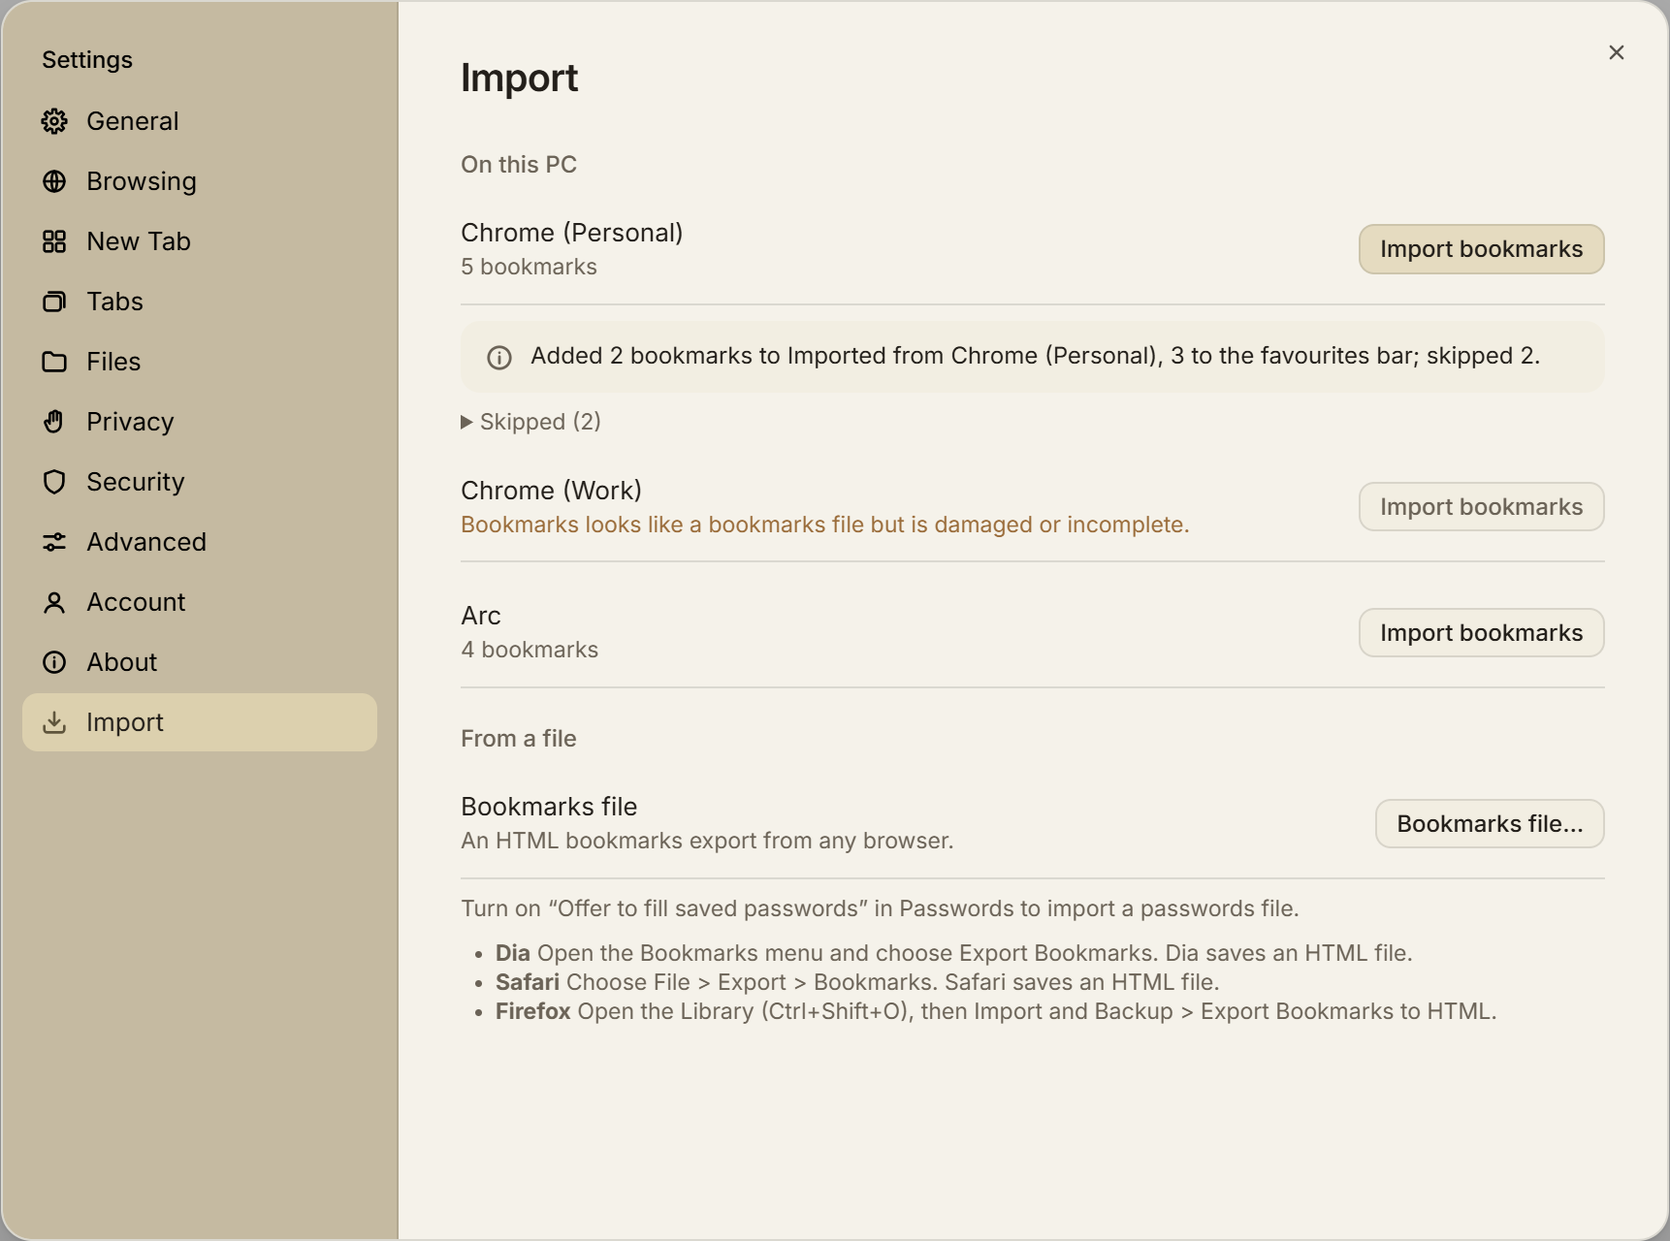
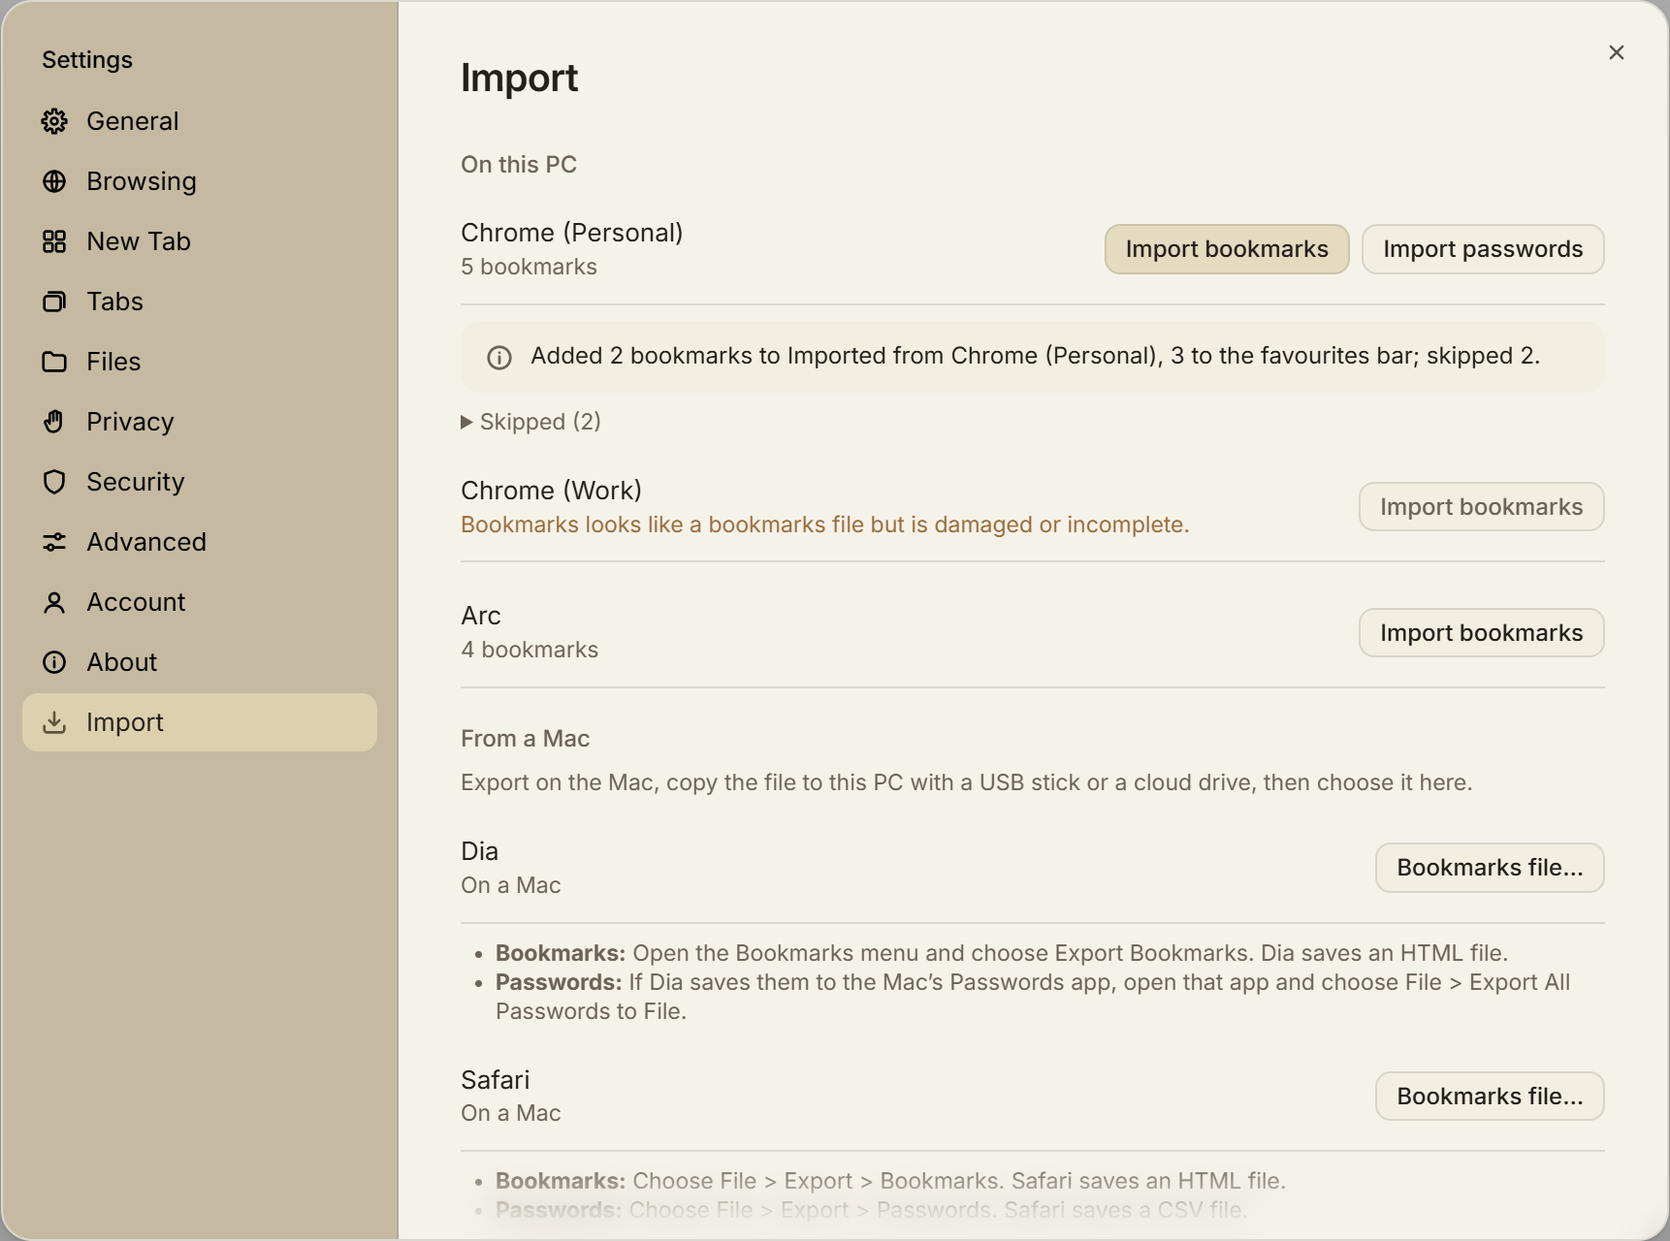
import: a from-a-mac section for dia, safari and arc, and the export menu path

diff --git a/e2e/import.spec.ts b/e2e/import.spec.ts
@@ -94,6 +94,8 @@ test('importing the same profile twice adds nothing the second time', async () =
 	await zing.close()
 })
 
+const macRow = (sheet: Page, app: string) => section(sheet).getByRole('group', { name: `${app} on a Mac`, exact: true })
+
 test('a bookmarks file from Safari imports into a folder named after the file', async () => {
 	const dir = scratchDir('zing-bookmarks-file-')
 	const file = join(dir, 'safari-export.html')
@@ -102,8 +104,8 @@ test('a bookmarks file from Safari imports into a folder named after the file', 
 	const sheet = await openImport(zing)
 	await zing.chrome.evaluate((f) => (globalThis as unknown as { chrome: { webview: { postMessage(m: unknown): void } } }).chrome.webview.postMessage({ kind: 'test', action: 'pick-files', files: [f] }), file)
 
-	await section(sheet).getByRole('button', { name: 'Bookmarks file…' }).click()
-	await expect(section(sheet).getByRole('status')).toContainText('safari-export.html')
+	await macRow(sheet, 'Safari').getByRole('button', { name: 'Bookmarks file…' }).click()
+	await expect(macRow(sheet, 'Safari').getByRole('status')).toContainText('safari-export.html')
 
 	const { bookmarks } = await library(zing)
 	const imported = bookmarks.find((n) => n.title.includes('safari-export.html') && 'children' in n)
@@ -132,6 +134,32 @@ test('a broken profile shows its error and the others still import', async () =>
 	await zing.close()
 })
 
+test('From a Mac lists Dia, Safari and Arc with their export steps, and hides Passwords file while the vault is off', async () => {
+	const zing = await launch(localAppData([]))
+	const sheet = await openImport(zing)
+	for (const app of ['Dia', 'Safari', 'Arc']) {
+		await expect(macRow(sheet, app).getByRole('button', { name: 'Bookmarks file…' })).toBeVisible()
+		await expect(macRow(sheet, app).getByRole('list', { name: `Exporting from ${app}` })).toContainText('Bookmarks:')
+		await expect(macRow(sheet, app).getByRole('button', { name: 'Passwords file…' })).toHaveCount(0)
+	}
+	await expect(macRow(sheet, 'Dia')).toContainText('Open the Bookmarks menu and choose Export Bookmarks.')
+	await expect(macRow(sheet, 'Arc')).toContainText('StorableSidebar.json')
+	await zing.close()
+})
+
+test("Arc's sidebar file from a Mac imports", async () => {
+	const file = join(scratchDir('zing-arc-file-'), 'StorableSidebar.json')
+	writeFileSync(file, fixture('arc-sidebar.json'))
+	const zing = await launch(localAppData([]))
+	const sheet = await openImport(zing)
+	await zing.chrome.evaluate((f) => (globalThis as unknown as { chrome: { webview: { postMessage(m: unknown): void } } }).chrome.webview.postMessage({ kind: 'test', action: 'pick-files', files: [f] }), file)
+
+	await macRow(sheet, 'Arc').getByRole('button', { name: 'Bookmarks file…' }).click()
+	await expect(macRow(sheet, 'Arc').getByRole('status')).toContainText('StorableSidebar.json')
+	expect((await library(zing)).bookmarks.some((n) => n.title.includes('StorableSidebar.json') && 'children' in n)).toBe(true)
+	await zing.close()
+})
+
 const PASSWORDS_CSV = 'name,url,username,password,note\nExample,https://example.test/login,ada,first password,\nOther,https://other.test,bob,second password,\n'
 
 /** A profile with the vault on or off (passwordAutofill is read at launch) and a downloads folder, for the password flow. */
@@ -145,6 +173,8 @@ function passwordProfile(vaultOn: boolean): string {
 const launchWithPasswords = (vaultOn: boolean): Promise<Launched> =>
 	launchZing({ userDataDir: passwordProfile(vaultOn), env: { ZING_LOCALAPPDATA: localAppData([['Default', 'Personal', fixture('chromium-bookmarks.json')]]) } })
 
+const CHROME_LAUNCH = { kind: 'launch:chrome', url: 'chrome://password-manager/settings', args: ['--profile-directory=Default', 'chrome://password-manager/settings'] }
+
 const passwordFlow = (sheet: Page) => row(sheet, 'Chrome (Personal)').getByRole('group', { name: 'Import Chrome passwords' })
 const summaries = (zing: Launched) => zing.chrome.evaluate(() => window.zing.vaultSummaries())
 
@@ -153,7 +183,8 @@ test("Import passwords opens Chrome's export page, imports the CSV that lands in
 	const sheet = await openImport(zing)
 	await row(sheet, 'Chrome (Personal)').getByRole('button', { name: 'Import passwords' }).click()
 	await expect(passwordFlow(sheet)).toContainText('In Chrome, click Export passwords, confirm, and save. Zing will pick up the file.')
-	expect(zing.dialogs()).toContainEqual({ kind: 'launch:chrome', url: 'chrome://password-manager/settings' })
+	await expect(passwordFlow(sheet)).toContainText('If Chrome shows a new tab instead, open ⋮ menu > Passwords and autofill > Google Password Manager > Settings.')
+	expect(zing.dialogs()).toContainEqual(CHROME_LAUNCH)
 
 	// The watch only takes a file written after it started, once its length has held for two polls.
 	const file = join(zing.userDataDir, 'downloads', 'Chrome Passwords.csv')
@@ -185,7 +216,7 @@ test('with the vault off, Import passwords asks first and turns it on', async ()
 	await passwordFlow(sheet).getByRole('button', { name: 'Turn on and continue' }).click()
 	await expect(passwordFlow(sheet)).toContainText('In Chrome, click Export passwords')
 	await expect.poll(async () => (await zing.chrome.evaluate(() => window.zing.getVaultState())).enabled).toBe(true)
-	expect(zing.dialogs()).toContainEqual({ kind: 'launch:chrome', url: 'chrome://password-manager/settings' })
+	expect(zing.dialogs()).toContainEqual(CHROME_LAUNCH)
 	await zing.close()
 })
 
@@ -205,6 +236,20 @@ test('a passwords file chosen by hand imports and offers to recycle it', async (
 	await expect(passwordFlow(sheet).getByRole('button', { name: 'Done' })).toBeVisible()
 	expect(existsSync(file)).toBe(false)
 	expect(zing.dialogs()).toContainEqual({ kind: 'recycle', url: 'my-export.csv' })
+	await zing.close()
+})
+
+test('a passwords file from Dia imports into the vault and reports under the Dia row', async () => {
+	const zing = await launchWithPasswords(true)
+	const sheet = await openImport(zing)
+	const file = join(scratchDir('zing-dia-passwords-'), 'Passwords.csv')
+	writeFileSync(file, PASSWORDS_CSV)
+	await zing.chrome.evaluate((f) => (globalThis as unknown as { chrome: { webview: { postMessage(m: unknown): void } } }).chrome.webview.postMessage({ kind: 'test', action: 'pick-files', files: [f] }), file)
+
+	await macRow(sheet, 'Dia').getByRole('button', { name: 'Passwords file…' }).click()
+	await expect(macRow(sheet, 'Dia').getByRole('status')).toContainText('Added 2, merged 0')
+	await expect(macRow(sheet, 'Safari').getByRole('status')).toHaveCount(0)
+	expect((await summaries(zing)).map((l) => l.username).sort()).toEqual(['ada', 'bob'])
 	await zing.close()
 })
 
@@ -279,7 +324,7 @@ test("Import passwords too opens Settings Import already waiting for Chrome's ex
 
 	const sheet = await pageWhere(zing.browser, (p) => p.url().endsWith('#surface'))
 	await expect(passwordFlow(sheet)).toContainText('In Chrome, click Export passwords, confirm, and save. Zing will pick up the file.')
-	await expect.poll(() => zing.dialogs()).toContainEqual({ kind: 'launch:chrome', url: 'chrome://password-manager/settings' })
+	await expect.poll(() => zing.dialogs()).toContainEqual(CHROME_LAUNCH)
 	await zing.close()
 })
 
@@ -320,6 +365,39 @@ test.describe('Import screenshots', () => {
 			await expect(row(sheet, 'Chrome (Personal)').getByRole('status')).toContainText('Added')
 			await sheet.waitForTimeout(400)
 			await sheet.getByRole('dialog', { name: 'Settings' }).screenshot({ path: join(SHOTS, `import-section-${mode}.png`) })
+			await zing.close()
+		})
+	}
+
+	for (const mode of ['light', 'dark'] as const) {
+		test(`the From a Mac rows, ${mode}`, async () => {
+			test.setTimeout(180_000)
+			mkdirSync(SHOTS, { recursive: true })
+			const zing = await launchWithPasswords(true)
+			await zing.chrome.evaluate((theme) => window.zing.setSetting('theme', theme), mode)
+			await expect.poll(async () => (await viewAccent(zing.chrome)).dark).toBe(mode === 'dark')
+			const sheet = await openImport(zing)
+			await sheet.emulateMedia({ colorScheme: mode })
+			await expect.poll(async () => (await viewAccent(sheet)).dark).toBe(mode === 'dark')
+			await macRow(sheet, 'Arc').scrollIntoViewIfNeeded()
+			await sheet.waitForTimeout(400)
+			await sheet.getByRole('dialog', { name: 'Settings' }).screenshot({ path: join(SHOTS, `import-mac-${mode}.png`) })
+			await zing.close()
+		})
+
+		test(`the password export fallback, ${mode}`, async () => {
+			test.setTimeout(180_000)
+			mkdirSync(SHOTS, { recursive: true })
+			const zing = await launchWithPasswords(true)
+			await zing.chrome.evaluate((theme) => window.zing.setSetting('theme', theme), mode)
+			await expect.poll(async () => (await viewAccent(zing.chrome)).dark).toBe(mode === 'dark')
+			const sheet = await openImport(zing)
+			await sheet.emulateMedia({ colorScheme: mode })
+			await expect.poll(async () => (await viewAccent(sheet)).dark).toBe(mode === 'dark')
+			await row(sheet, 'Chrome (Personal)').getByRole('button', { name: 'Import passwords' }).click()
+			await expect(passwordFlow(sheet)).toContainText('If Chrome shows a new tab instead')
+			await sheet.waitForTimeout(400)
+			await sheet.getByRole('dialog', { name: 'Settings' }).screenshot({ path: join(SHOTS, `import-password-fallback-${mode}.png`) })
 			await zing.close()
 		})
 	}

diff --git a/src/renderer/src/settings/ImportSection.tsx b/src/renderer/src/settings/ImportSection.tsx
@@ -2,7 +2,7 @@ import { useEffect, useState } from 'react'
 import type { BookmarkImportOutcome, ImportSourceView } from '@shared/ipc'
 import { zing } from '../api'
 import { InfoBanner, PillButton } from '../components'
-import { fileHelp, outcomeLine, PASSWORDS_FILE_VAULT_OFF } from './importText'
+import { fileHelp, MAC_INTRO, macBrowsers, outcomeLine, PASSWORDS_FILE_VAULT_OFF } from './importText'
 import { messageOf, PasswordImportResult, usePasswordCsvImport } from './PasswordImport'
 import { PasswordImportFlow } from './PasswordImportFlow'
 import { SettingRowShell } from './SettingRowShell'
@@ -13,6 +13,7 @@ type RowId = string
 
 const FILE_ROW: RowId = 'bookmarks-file'
 const PASSWORDS_ROW: RowId = 'passwords-file'
+const macRow = (app: string): RowId => `mac:${app}`
 
 function sourceDetail(source: ImportSourceView): string {
 	if (source.error) return source.error
@@ -53,6 +54,8 @@ export function ImportSection() {
 	const [result, setResult] = useState<{ row: RowId; outcome: BookmarkImportOutcome }>()
 	const [flowSource, setFlowSource] = useState<string>()
 	const passwords = usePasswordCsvImport()
+	// The row whose Passwords file button ran last, so the result sits under it.
+	const [passwordsRow, setPasswordsRow] = useState<RowId>()
 
 	useEffect(() => {
 		let current = true
@@ -112,19 +115,23 @@ export function ImportSection() {
 	const importFrom = (source: ImportSourceView): void =>
 		void run(source.id, async () => setResult({ row: source.id, outcome: await zing.importBookmarks(source.id) }))
 
-	const importBookmarksFile = (): void =>
-		void run(FILE_ROW, async () => {
+	const importBookmarksFile = (row: RowId): void =>
+		void run(row, async () => {
 			const [file] = await zing.pickFiles(['bookmarks'])
 			if (!file) return
-			setResult({ row: FILE_ROW, outcome: await zing.importBookmarksFile(file.token) })
+			setResult({ row, outcome: await zing.importBookmarksFile(file.token) })
 		})
 
-	const importPasswordsFile = (): void => void run(PASSWORDS_ROW, passwords.pickAndImport)
+	const importPasswordsFile = (row: RowId): void => {
+		setPasswordsRow(row)
+		void run(row, passwords.pickAndImport)
+	}
 
 	const rowOutcome = (row: RowId) => (
 		<>
 			{error?.row === row ? <InfoBanner kind="warning">{error.message}</InfoBanner> : null}
 			{result?.row === row ? <Outcome outcome={result.outcome} /> : null}
+			{passwordsRow === row ? <PasswordImportResult imported={passwords.imported} /> : null}
 		</>
 	)
 
@@ -164,10 +171,38 @@ export function ImportSection() {
 				</div>
 			))}
 
+			<div className="vault-subtitle">From a Mac</div>
+			<div className="vault-none">{MAC_INTRO}</div>
+			{macBrowsers.map((mac) => (
+				<div key={mac.app} className="vault" role="group" aria-label={`${mac.app} on a Mac`}>
+					<SettingRowShell title={mac.app} detail="On a Mac">
+						<div className="vault-actions">
+							<PillButton variant="outlined" size="small" disabled={busy} onClick={() => importBookmarksFile(macRow(mac.app))}>
+								Bookmarks file…
+							</PillButton>
+							{vaultOn ? (
+								<PillButton variant="outlined" size="small" disabled={busy} onClick={() => importPasswordsFile(macRow(mac.app))}>
+									Passwords file…
+								</PillButton>
+							) : null}
+						</div>
+					</SettingRowShell>
+					<ul className="import-help" aria-label={`Exporting from ${mac.app}`}>
+						<li>
+							<strong>Bookmarks:</strong> {mac.bookmarks}
+						</li>
+						<li>
+							<strong>Passwords:</strong> {mac.passwords}
+						</li>
+					</ul>
+					{rowOutcome(macRow(mac.app))}
+				</div>
+			))}
+
 			<div className="vault-subtitle">From a file</div>
 			<SettingRowShell title="Bookmarks file" detail="An HTML bookmarks export from any browser.">
 				<div className="vault-actions">
-					<PillButton variant="outlined" size="small" disabled={busy} onClick={importBookmarksFile}>
+					<PillButton variant="outlined" size="small" disabled={busy} onClick={() => importBookmarksFile(FILE_ROW)}>
 						Bookmarks file…
 					</PillButton>
 				</div>
@@ -180,13 +215,12 @@ export function ImportSection() {
 				<>
 					<SettingRowShell title="Passwords file" detail="A CSV export from a password manager or browser.">
 						<div className="vault-actions">
-							<PillButton variant="outlined" size="small" disabled={busy} onClick={importPasswordsFile}>
+							<PillButton variant="outlined" size="small" disabled={busy} onClick={() => importPasswordsFile(PASSWORDS_ROW)}>
 								Passwords file…
 							</PillButton>
 						</div>
 					</SettingRowShell>
-					{error?.row === PASSWORDS_ROW ? <InfoBanner kind="warning">{error.message}</InfoBanner> : null}
-					<PasswordImportResult imported={passwords.imported} />
+					{rowOutcome(PASSWORDS_ROW)}
 				</>
 			) : vault === undefined || vault.state.error === 'unreadable' ? null : (
 				<div className="vault-none">{PASSWORDS_FILE_VAULT_OFF}</div>

diff --git a/src/renderer/src/settings/importText.ts b/src/renderer/src/settings/importText.ts
@@ -1,4 +1,4 @@
-import type { BookmarkImportOutcome } from '@shared/ipc'
+import type { BookmarkImportOutcome, ImportSourceView } from '@shared/ipc'
 
 const bookmarks = (n: number): string => `${n} ${n === 1 ? 'bookmark' : 'bookmarks'}`
 
@@ -13,12 +13,42 @@ export function outcomeLine(o: BookmarkImportOutcome): string {
 	return `${parts.join(', ')}${skipped > 0 ? `; skipped ${skipped}` : ''}.`
 }
 
-/** How to get a bookmarks file out of the browsers Zing can't read from this PC. */
+/** How to get a bookmarks file out of a browser Zing can't read from this PC and that has no row of its own. */
 export const fileHelp: readonly { app: string; steps: string }[] = [
-	{ app: 'Dia', steps: 'Open the Bookmarks menu and choose Export Bookmarks. Dia saves an HTML file.' },
-	{ app: 'Safari', steps: 'Choose File > Export > Bookmarks. Safari saves an HTML file.' },
 	{ app: 'Firefox', steps: 'Open the Library (Ctrl+Shift+O), then Import and Backup > Export Bookmarks to HTML.' },
 ]
+
+/** Browsers that run only on a Mac: their files have to be exported there and copied over. */
+export const macBrowsers: readonly { app: string; bookmarks: string; passwords: string }[] = [
+	{
+		app: 'Dia',
+		bookmarks: 'Open the Bookmarks menu and choose Export Bookmarks. Dia saves an HTML file.',
+		passwords: 'If Dia saves them to the Mac’s Passwords app, open that app and choose File > Export All Passwords to File.',
+	},
+	{
+		app: 'Safari',
+		bookmarks: 'Choose File > Export > Bookmarks. Safari saves an HTML file.',
+		passwords: 'Choose File > Export > Passwords. Safari saves a CSV file.',
+	},
+	{
+		app: 'Arc',
+		bookmarks: 'In Finder, choose Go > Go to Folder, enter ~/Library/Application Support/Arc, and copy StorableSidebar.json.',
+		passwords: 'Arc keeps them in the Mac’s Passwords app. Open that app and choose File > Export All Passwords to File.',
+	},
+]
+
+export const MAC_INTRO = 'Export on the Mac, copy the file to this PC with a USB stick or a cloud drive, then choose it here.'
+
+/**
+ * Where the export page is, for when the browser opens a plain new tab: Chromium ignores a chrome:// address
+ * given on its command line, so Zing can open the right profile but maybe not the page.
+ */
+export const exportMenuPath: Readonly<Record<ImportSourceView['browser'], string | undefined>> = {
+	chrome: '⋮ menu > Passwords and autofill > Google Password Manager > Settings',
+	edge: '… menu > Settings > Profiles > Passwords',
+	brave: '≡ menu > Passwords and autofill > Password Manager > Settings',
+	arc: undefined,
+}
 
 /** Shown in place of the Passwords file button while the vault is off. */
 export const PASSWORDS_FILE_VAULT_OFF = 'Turn on “Offer to fill saved passwords” in Passwords to import a passwords file.'

diff --git a/src/renderer/src/settings/importText.test.ts b/src/renderer/src/settings/importText.test.ts
@@ -1,5 +1,5 @@
 import { describe, expect, it } from 'vitest'
-import { fileHelp, InvalidPasswordImportEventError, outcomeLine, PASSWORDS_FILE_VAULT_OFF, passwordImportAccepts, passwordImportFailureApplies, passwordImportStep, type PasswordImportEvent, type PasswordImportState } from './importText'
+import { exportMenuPath, fileHelp, InvalidPasswordImportEventError, macBrowsers, outcomeLine, PASSWORDS_FILE_VAULT_OFF, passwordImportAccepts, passwordImportFailureApplies, passwordImportStep, type PasswordImportEvent, type PasswordImportState } from './importText'
 
 const outcome = (patch: Partial<Parameters<typeof outcomeLine>[0]> = {}) => ({
 	folderTitle: 'Imported from Chrome (Personal)',
@@ -35,9 +35,28 @@ describe('outcomeLine', () => {
 })
 
 describe('fileHelp', () => {
-	it('covers Dia, Safari and Firefox', () => {
-		expect(fileHelp.map((h) => h.app)).toEqual(['Dia', 'Safari', 'Firefox'])
+	it('covers Firefox, which has no row of its own', () => {
+		expect(fileHelp.map((h) => h.app)).toEqual(['Firefox'])
 		for (const h of fileHelp) expect(h.steps).not.toBe('')
+	})
+})
+
+describe('macBrowsers', () => {
+	it('covers Dia, Safari and Arc with both exports', () => {
+		expect(macBrowsers.map((m) => m.app)).toEqual(['Dia', 'Safari', 'Arc'])
+		for (const m of macBrowsers) {
+			expect(m.bookmarks).not.toBe('')
+			expect(m.passwords).not.toBe('')
+		}
+	})
+})
+
+describe('exportMenuPath', () => {
+	it('has a menu path for every browser with an export page, and none for Arc', () => {
+		expect(exportMenuPath.chrome).toContain('Google Password Manager')
+		expect(exportMenuPath.edge).toContain('Passwords')
+		expect(exportMenuPath.brave).toContain('Password Manager')
+		expect(exportMenuPath.arc).toBeUndefined()
 	})
 })
 

diff --git a/src/renderer/src/settings/PasswordImportFlow.tsx b/src/renderer/src/settings/PasswordImportFlow.tsx
@@ -2,7 +2,7 @@ import { useEffect, useRef, useState } from 'react'
 import type { ImportSourceView } from '@shared/ipc'
 import { zing } from '../api'
 import { InfoBanner, PillButton } from '../components'
-import { CONFIRM_VAULT_COPY, EXPORT_BUTTON, EXPORT_COPY_AFTER, passwordImportAccepts, passwordImportFailureApplies, passwordImportStep, RECYCLE_COPY, type PasswordImportEvent, type PasswordImportState } from './importText'
+import { CONFIRM_VAULT_COPY, EXPORT_BUTTON, EXPORT_COPY_AFTER, exportMenuPath, passwordImportAccepts, passwordImportFailureApplies, passwordImportStep, RECYCLE_COPY, type PasswordImportEvent, type PasswordImportState } from './importText'
 import { messageOf, PasswordImportResult, usePasswordCsvImport } from './PasswordImport'
 
 interface PasswordImportFlowProps {
@@ -167,6 +167,11 @@ export function PasswordImportFlow({ source, vaultOn, onClose }: PasswordImportF
 						In {browserName(source)}, click <strong>{EXPORT_BUTTON}</strong>
 						{EXPORT_COPY_AFTER}
 					</InfoBanner>
+					{exportMenuPath[source.browser] ? (
+						<div className="import-menu-path">
+							If {browserName(source)} shows a new tab instead, open {exportMenuPath[source.browser]}.
+						</div>
+					) : null}
 					<div className="vault-actions">
 						{chooseButton}
 						{cancelRow}

diff --git a/e2e/zing.ts b/e2e/zing.ts
@@ -24,8 +24,8 @@ export interface Launched {
 	readonly pid: number
 	/** The menus the host opened, oldest first, as their labels (a separator is null); test runs never show them. */
 	menus(): (string | null)[][]
-	/** The dialogs the host would have opened (Edge's print preview), oldest first; test runs never show them. */
-	dialogs(): { readonly kind: string; readonly url: string }[]
+	/** The dialogs the host would have opened (Edge's print preview), oldest first; test runs never show them. A browser launch also has the arguments it would have been given. */
+	dialogs(): { readonly kind: string; readonly url: string; readonly args?: readonly string[] }[]
 	/** Starts Zing again on the same profile, as a link click from another app would, and resolves with its exit code. */
 	launchAgain(args: readonly string[]): Promise<number | null>
 	close(): Promise<void>

diff --git a/src/renderer/src/settings/settings.css b/src/renderer/src/settings/settings.css
@@ -547,3 +547,8 @@
 	color: var(--muted);
 	font-size: 11.5px;
 }
+
+.import-menu-path {
+	color: var(--muted);
+	font-size: 11.5px;
+}
